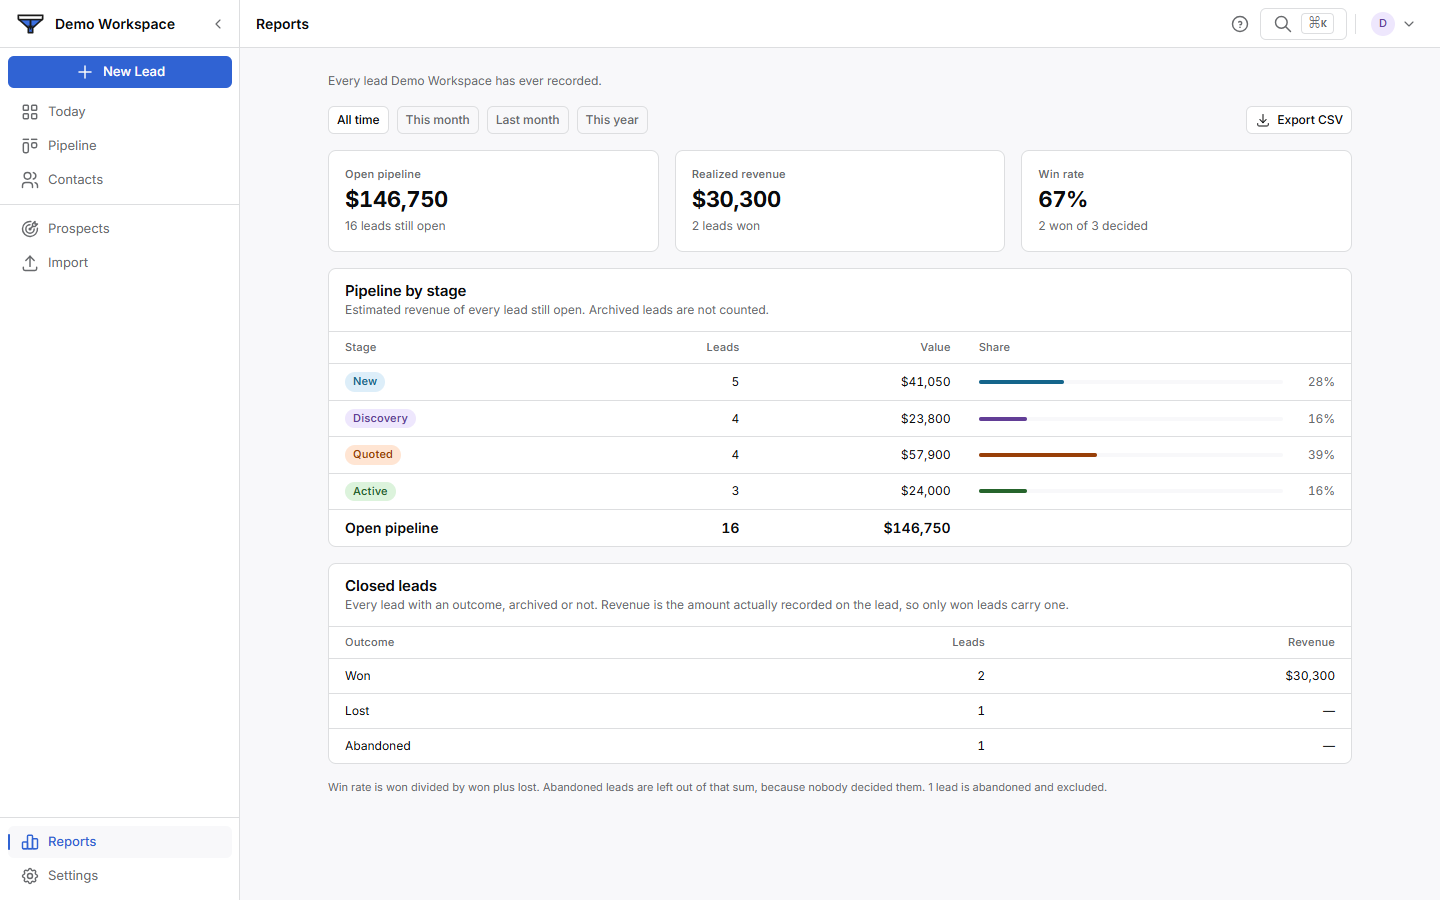
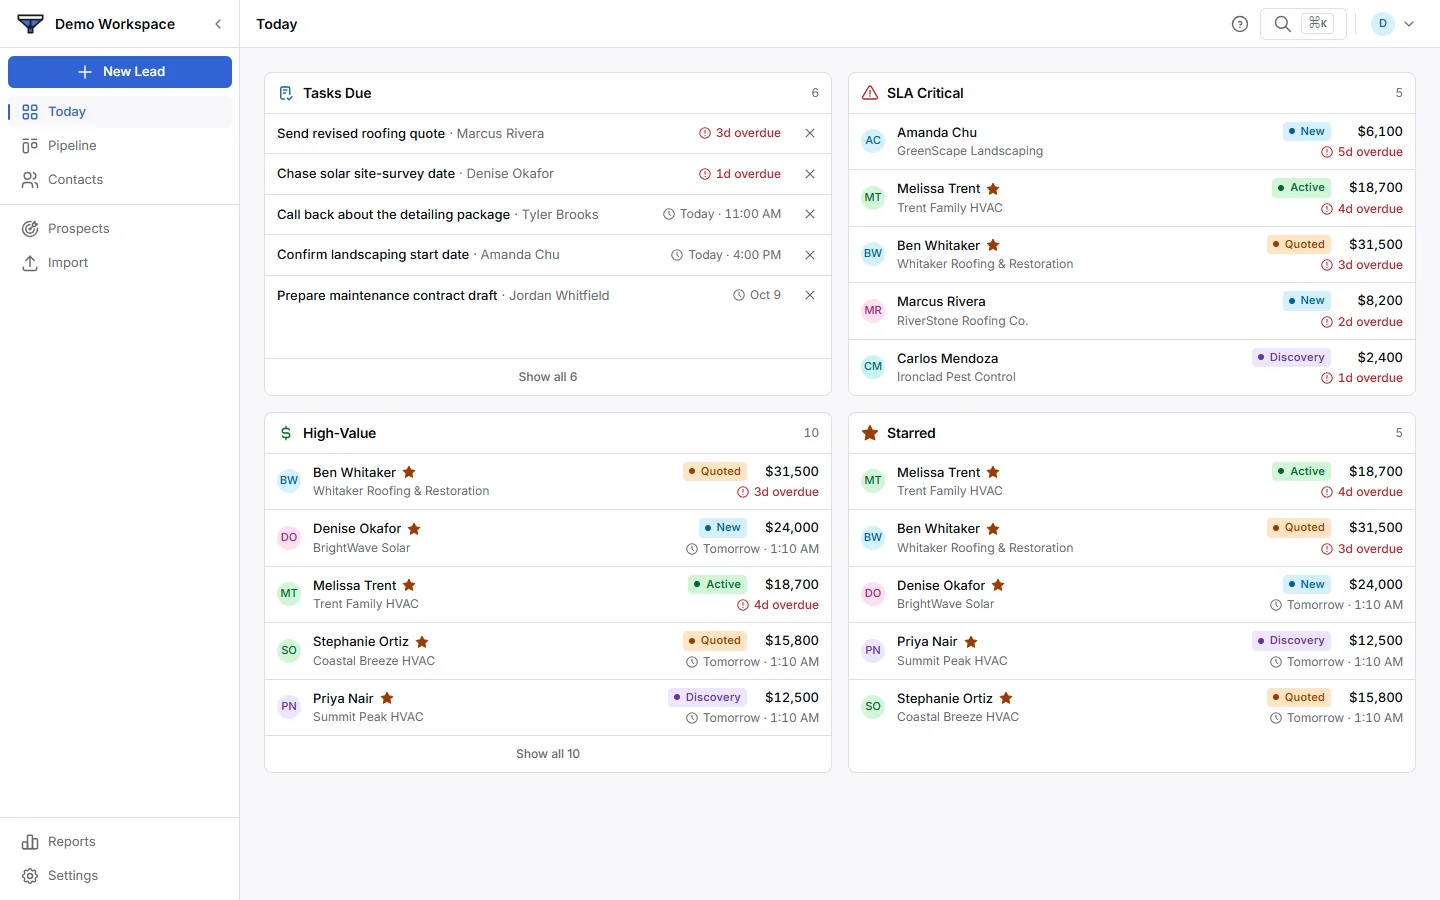
CRM poster: the new Today view
Retaken with tools/capture after the Today and Pipeline redesign (tekguyz-crm#47). Coloured stage badges, dollar values and overdue flags fill the 16:10 frame. Alt text, the code comment and the PLAYBOOK and COPY notes now say Today, not Reports.

diff --git a/content/work.ts b/content/work.ts
@@ -217,13 +217,15 @@ export const work: WorkEntry[] = [
     // **Check it without `curl -L`** — following a redirect hides where it went.
     url: 'https://tekguyz-crm.vercel.app/',
     poster: '/media/tekguyz-crm.webp',
-    alt: 'Lead and pipeline CRM reporting view showing open pipeline by stage, closed leads by outcome, and a win-rate figure',
+    alt: 'Lead and pipeline CRM Today view: tasks due, leads past their follow-up date, high-value and starred leads, each with a coloured stage badge and a dollar value',
     embeddable: false,
     updatedAt: REFRESH_2026_10_01,
     challenge:
       'Enquiries arrive in an inbox, a phone log, and a form notification, while the businesses you went out and found sit in a spreadsheet nobody opens twice. The follow-up lives in somebody’s head, nothing tells you which leads have gone quiet, and nothing records what the pipeline was actually worth once the dust settled.',
-    // BOTH DIRECTIONS ARE NAMED. The poster is the Reports view, which counts
-    // the outbound half as well as the inbound form.
+    // BOTH DIRECTIONS ARE NAMED, in the copy below. The poster is the Today view
+    // (swapped from the Reports view on 2026-10-06, after the Today and
+    // Pipeline redesign, tekguyz-crm#47), so it no longer proves the outbound
+    // half by itself; the words carry that.
     //
     // Outbound is stated as it really works since 2026-09-30: researched leads
     // arrive as a file and are imported by hand. NEVER write "automatic" here,

diff --git a/docs/PLAYBOOK.md b/docs/PLAYBOOK.md
@@ -177,7 +177,7 @@ Current set, all `.webp`:
 - `sarah-thumb.webp` — AI Voice Receptionist, **compact 16:10 contexts** (case-study row, detail page). **Left as it was on 2026-10-01.** The new capture set (`tools/capture`) shows the client's name on every voice picture, and the voice page keeps the client unnamed, so none was used. This file shows the CRM-sync panel and a tool name; see KNOWN_GAPS. It replaces `sarah-project-thumb.webp`, which was never documented here and was a crop of the retired phone-call simulator — a violation of this section's own hard rule, not merely a naming gap. `bun run check:media` fails the build until the file lands, which is the guard working as intended.
 - `field-reports-thumb.webp` — Field Photo Reports v2. 1440×900, cropped from the app's own `showcase/office-visit-desktop-light.png`: one Visit with a stamped Live photo, an open Issue and Mark Reviewed. Replaced `field-ops-thumb.webp` (v1) on 2026-09-28. **Re-captured 2026-10-01** by `claude-config/tools/capture` (`visit-desktop-light.webp`, used as is, no crop or re-encode). The client's logo is in it, as before. **Swapped 2026-10-06** to the top of the app's `showcase/visit-feed-light.png`: 1080×675, cut at y=108, because the desktop picture left wide gray sides. This slot is now 1080×675, not 1440×900.
 - `squid-ink.webp` — AI Meeting Notes & Transcription. 1440×900. Keeps the source repo's working name as a filename; the **page never uses that name**, because the product's public name is unconfirmed upstream. Replaced `crunch-wrap-dashboard.webp` on 2026-09-04. **Re-captured 2026-10-01** by `tools/capture` (`note-desktop-light.webp`, used as is): a real 3-minute note with its summary, takeaways, action items and cited transcript lines. **Swapped 2026-10-06** to the newer `note-desktop-light.png` in the app's `showcase/` (same view, converted to webp at quality 82): a different note, with no group name in its title.
-- `tekguyz-crm.webp` — Lead & Pipeline CRM. 1440×900. **Read this before writing any copy near it:** it is the real product's real Reports view (re-captured 2026-10-01 by `tools/capture`, `reports-desktop-light.webp`, used as is), but the tenant shown is `Demo Workspace` and every figure on it is **seeded verification data, not a client result.** It satisfies this section's hard rule (real production UI, not a simulator) and it does **not** license a single number on the page.
+- `tekguyz-crm.webp` — Lead & Pipeline CRM. 1440×900. **Read this before writing any copy near it:** it is the real product's real Today view (re-captured 2026-10-06 by `tools/capture`, `today-desktop-light.png`, after the Today and Pipeline redesign, tekguyz-crm#47; it replaced the Reports view of 2026-10-01), but the tenant shown is `Demo Workspace` and every figure on it is **seeded verification data, not a client result.** It satisfies this section's hard rule (real production UI, not a simulator) and it does **not** license a single number on the page.
 - `meetup-thumb.webp` — Private Meetup App. 1440×900, from the app's own `showcase/sesh-desktop-light.png`: one meetup, with the address hidden until the host approves. Taken in the demo, so every person in it is invented. The app's name shows in its own header, as the client's logo does in `field-reports-thumb.webp`. Added 2026-09-29 (#13 pass 2). **Re-captured 2026-10-01** by `tools/capture` (`list-desktop-light.webp`, used as is): the list view. The capture set's map and meetup pictures are phone-shaped (780×1688) and would crop to a fragment in this 16:10 slot, so they wait for the gallery (#11). Its dates (Oct 1 to 4) go stale within days. **Swapped again 2026-10-06** to the top of the app's `showcase/list-feed-light.png`: 1080×675, cut at y=270. The feed picture is the phone layout, so it fills the frame; the desktop picture is one narrow column with empty sides. This slot is now 1080×675, not 1440×900. Its dates (Oct 6) go stale within days.
 - `advantage-teams-thumb.webp` — Team Performance
 

diff --git a/docs/COPY.md b/docs/COPY.md
@@ -398,7 +398,7 @@ One click opens your own workspace with sample data — no signup, no password, 
 **HOW IT'S BUILT**
 Multi-tenant Postgres with row-level security, signed webhook lead capture, a lead-import path for researched lead lists, role-checked writes, AI spam triage and voice-memo transcription, and a weekly revenue report that emails itself. Each demo visitor gets a private workspace of sample data, so the tour cannot reach anything real.
 
-> **Screenshot caveat, do not lose this.** `public/media/tekguyz-crm.webp` is the real product's real Reports view, but the workspace shown is **Demo Workspace** and every figure on it — open pipeline, realized revenue, win rate — is **seeded verification data, not a client result.** No copy on this page may quote, echo, or round any of those numbers. If the page ever needs a figure, it does not get one.
+> **Screenshot caveat, do not lose this.** `public/media/tekguyz-crm.webp` is the real product's real Today view, but the workspace shown is **Demo Workspace** and every figure on it — each lead's dollar value, the overdue counts — is **seeded verification data, not a client result.** No copy on this page may quote, echo, or round any of those numbers. If the page ever needs a figure, it does not get one.
 
 METADATA — TITLE: `TEKGUYZ | Lead & Pipeline CRM`
 DESCRIPTION: `A multi-tenant CRM fed by website enquiries and by researched lead lists, that flags follow-ups before they go cold and records what the pipeline was actually worth.`
